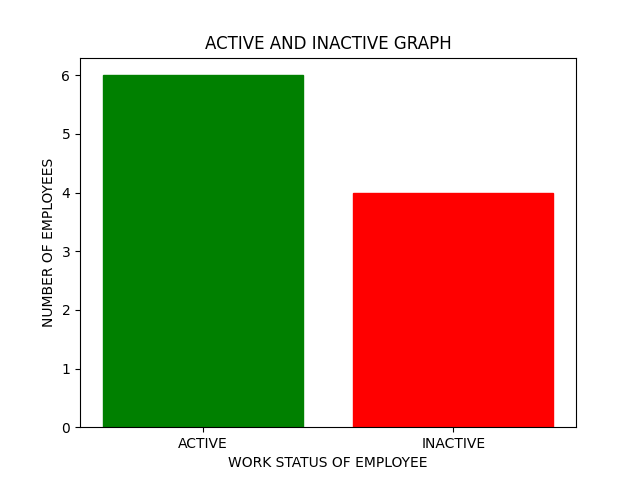
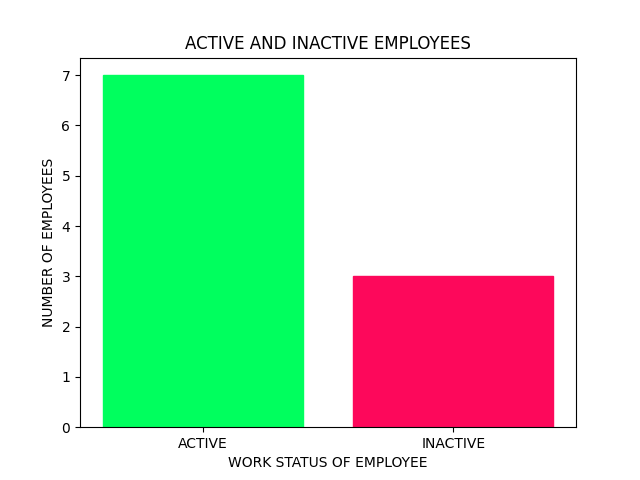
v0.7.0

diff --git a/main.py b/main.py
@@ -20,17 +20,18 @@ class Main:
     def __init__(self):
         # Root window creation
         root = Tk()
-
-        ws = root.winfo_screenwidth() # width of the screen
-        hs = root.winfo_screenheight() # height of the screen
-        x = int((ws/2) - (app_w/2))
-        y = int((hs/2) - (app_h/2))
         root.title('Employee Attendance Monitoring System')
+        
+        self.scr_w = root.winfo_screenwidth() # width of the screen
+        self.scr_h = root.winfo_screenheight() # height of the screen
+        x = int((self.scr_w/2) - (app_w/2))
+        y = int((self.scr_h/2) - (app_h/2))
         self.WINDOW_SIZE = f'{app_w}x{app_h}+{x}+{y}'
         root.geometry(self.WINDOW_SIZE)
+        
+        root.title('Employee Attendance Monitoring System')
         root.config(bg=BGCOLOR)
         root.resizable(False, False)
-        
 
         # Employee Information Initialization
         self.employee_id = ''
@@ -103,13 +104,14 @@ class Main:
         self.save_img = ImageTk.PhotoImage(Image.open("btn/save_btn.png").resize((btn_w, btn_h), Image.ANTIALIAS))
         self.back_img = ImageTk.PhotoImage(Image.open("btn/back_btn.png").resize((btn_h, btn_h), Image.ANTIALIAS))
 
+
         # Opening root window
         self.starting(root)
 
     def starting(self, root):
         global username, password
         # Creating frame to center widgets
-        login_bg = ImageTk.PhotoImage(Image.open('bg/login_bg.png').resize((app_w, app_h), Image.ANTIALIAS))
+        login_bg = ImageTk.PhotoImage(Image.open('bg/login_bg.png').resize((1000, 580), Image.ANTIALIAS))
         # login_img = ImageTk.PhotoImage(Image.open('bts_biot/login_btn.png').resize((80, 30), Image.ANTIALIAS))
         # exit_img = ImageTk.PhotoImage(Image.open('bts_biot/exit_btn.png').resize((80, 30), Image.ANTIALIAS))
         login_bg_lbl = Label(root,image=login_bg)
@@ -250,16 +252,22 @@ class Main:
         # Fetch employee profile
         self.c.execute(f"SELECT * FROM employees WHERE employee_id = '{id}'")
         content = self.c.fetchone()
-
         # Create Employee  Window
         employee_menu_page = Toplevel()
         employee_menu_page.title('Employee Attendance Monitoring System')
         employee_menu_page.config(bg=BGCOLOR)
-        employee_menu_page.geometry('600x400')
+        emp_page_w = 600
+        emp_page_h = 500
+        x = int((self.scr_w/2) - (emp_page_w/2))
+        y = int((self.scr_h/2) - (emp_page_h/2))
+        employee_menu_page.geometry(f'{emp_page_w}x{emp_page_h}+{x}+{y}')
         employee_menu_page.resizable(False, False)
 
-        button_h = 4
-        button_w = 15
+        time_in_img = ImageTk.PhotoImage(Image.open("btn/button_time-in.png").resize((200, 66), Image.ANTIALIAS))
+        time_out_img = ImageTk.PhotoImage(Image.open("btn/button_time-out.png").resize((200, 66), Image.ANTIALIAS))
+        view_record_img = ImageTk.PhotoImage(Image.open("btn/button_view-records.png").resize((150, 40), Image.ANTIALIAS))
+        edit_profile_img = ImageTk.PhotoImage(Image.open("btn/button_edit-profile.png").resize((150, 40), Image.ANTIALIAS))
+        change_pass_img = ImageTk.PhotoImage(Image.open("btn/button_change-password.png").resize((150, 40), Image.ANTIALIAS))
 
         Label(employee_menu_page, height=3, width=400, bg=HEADER_COLOR, text='EMPLOYEE', font=FONT).pack(pady=(0, 10))
 
@@ -269,39 +277,38 @@ class Main:
         # Header
         Label(employee_menu_frame, text='WELCOME,', bg=BGCOLOR, font=FONT).grid(sticky='W', row=0, column=0,
                                                                                   columnspan=2)
-        Label(employee_menu_frame, text=content[2].upper(), bg=BGCOLOR, font=FONT).grid(sticky='W', row=1, column=0, padx=(0,5))
-        Label(employee_menu_frame, text=content[3].upper(), bg=BGCOLOR, font=FONT).grid(sticky='W', row=1, column=1, padx=5,
-                                                                                  columnspan=2)
-        Label(employee_menu_frame, text=f'YOUR SCHEDULE: {content[5]} to {content[6]}', bg=BGCOLOR,).grid(sticky='W', row=1, column=2, padx=5,
+        Label(employee_menu_frame, text=f'{content[2].upper()} {content[3].upper()}', bg=BGCOLOR, font=FONT).grid(sticky='W', row=1, column=1, padx=(0,5))
+        
+        Label(employee_menu_frame, text=f'YOUR SCHEDULE: {content[5]} to {content[6]}', bg=BGCOLOR,).grid(sticky='W', row=2, column=0, pady=(5, 20),padx=5,
                                                                                   columnspan=2)
 
         # time and date today
         emp = Label(employee_menu_frame, bg=BGCOLOR, font=('Verdana', 10), width=40)
-        emp.grid(row=2, column=1, columnspan=2)
+        emp.grid(row=3, column=1, columnspan=2)
         self.current_time(emp)
 
         # time in button
-        Button(employee_menu_frame, text='TIME IN', width=button_w, height=button_h, bg='#a5e1ad',
-               font=('Verdana', 10),command=lambda: time_in_query(self, id)).grid(sticky='W', row=3, column=1, rowspan=2, pady=10, padx=20)
+        Button(employee_menu_frame, image=time_in_img, border=0, bg=BGCOLOR,
+               font=('Verdana', 10),command=lambda: time_in_query(self, id)).grid(sticky='W', row=4, column=1, rowspan=2, pady=10, padx=20)
 
         # time out button
-        Button(employee_menu_frame, text='TIME OUT', width=button_w, height=button_h, bg='#f29191',
-               font=('Verdana', 10), command=lambda: time_out_query(self, id)).grid(sticky='W', row=5, column=1, pady=10, rowspan=2, padx=20)
+        Button(employee_menu_frame, image=time_out_img,border=0, bg=BGCOLOR,
+               font=('Verdana', 10), command=lambda: time_out_query(self, id)).grid(sticky='W', row=6, column=1, pady=10, rowspan=2, padx=20)
 
         # View Records Button
-        Button(employee_menu_frame, text='VIEW RECORDS', bg='#c0fefc', width=20, command=lambda: employee_records(self, content[0])).grid(sticky='S', row=3, column=2,
+        Button(employee_menu_frame,image=view_record_img, bg=BGCOLOR, border=0, command=lambda: employee_records(self, content[0])).grid(sticky='S', row=4, column=2,
                                                                                       pady=10, padx=20)
 
         # Edit Profile Button
-        Button(employee_menu_frame, text='EDIT PROFILE', bg='#c0fefc', width=20,
-               command=lambda: [employee_menu_page.destroy(), edit_profile(self, content[0], root)]).grid(sticky='N', row=4, column=2,
+        Button(employee_menu_frame, image=edit_profile_img, bg=BGCOLOR, border=0,
+               command=lambda: [edit_profile(self, content[0], root,employee_menu_page)]).grid(sticky='N', row=5, column=2,
                                                                                          pady=10, padx=20)
 
         # Edit Password Button
-        Button(employee_menu_frame, text='CHANGE PASSWORD', bg='#c0fefc', width=20, command=lambda: edit_password(self, id)).grid(sticky='N', row=5, column=2,
+        Button(employee_menu_frame, image=change_pass_img, bg=BGCOLOR, border=0, command=lambda: edit_password(self, id,employee_menu_page)).grid(sticky='N', row=6, column=2,
                                                                                          pady=10, padx=20)
                                                                             
-        Button(employee_menu_frame, text='Log Out', bg='#e4bad4',command=lambda: [employee_menu_page.destroy(), root.deiconify()]).grid(row=6, column=2)
+        Button(employee_menu_frame, image=self.logout_img, bg=BGCOLOR,border=0, command=lambda: [employee_menu_page.destroy(), root.deiconify()]).grid(row=7, column=2)
         # check if the Exit th Window Manually
         employee_menu_page.protocol("WM_DELETE_WINDOW", lambda: [employee_menu_page.destroy(), root.deiconify()])
 

diff --git a/employee/employees.py b/employee/employees.py
@@ -4,7 +4,7 @@ from config_var import *
 from tkinter import messagebox
 from tkinter import ttk
 
-def edit_profile(self, id, root):
+def edit_profile(self, id, root, parent_window):
     global new_fname, new_lname, new_sex
     # fetch necessary info of employees
     self.c.execute("SELECT first_name, last_name, sex FROM employees WHERE employee_id = '{}'".format(id))
@@ -13,8 +13,15 @@ def edit_profile(self, id, root):
 
     # edit profile window
     edit_profile = Toplevel()
+
+    edit_page_w = 400
+    edit_page_h = 300
+    x = int((self.scr_w/2) - (edit_page_w/2))
+    y = int((self.scr_h/2) - (edit_page_h/2))
+    win_size=f'{edit_page_w}x{edit_page_h}+{x}+{y}'
     edit_profile.title('EDIT PROFILE')
-    edit_profile.geometry('400x300')
+    edit_profile.geometry(win_size)
+    edit_profile.resizable(False,False)
     edit_profile.config(bg=BGCOLOR)
 
     Label(edit_profile, height=3, width=400, bg=HEADER_COLOR, text='EDIT PROFILE', font=FONT).pack(pady=(0, 10))
@@ -34,20 +41,20 @@ def edit_profile(self, id, root):
     new_lname.insert(0, result[1])
 
     Label(edit, text='SEX: ', bg=BGCOLOR).grid(row=2, column=0, pady=10)
-    new_sex.set(result[2])
-    option = OptionMenu(edit, new_sex, 'MALE', 'FEMALE')
+    new_sex = ['MALE', 'FEMALE']
+    option = ttk.Combobox(edit, value=new_sex, width=10, state='readonly')
     option.grid(sticky='W', row=2, column=1)
+    option.current(new_sex.index(result[2]))
 
-    Button(edit, text='SAVE', bg='#AAFE92',
-           command=lambda: [edit_profile_query(self, (new_fname.get(), new_lname.get(), new_sex.get(), id)),
-                            edit_profile.destroy(), self.employee_page(root, id)]).grid(row=3, column=2)
+    Button(edit, image=self.save_img, border=0, bg=BGCOLOR,
+           command=lambda: [edit_profile_query(self, (new_fname.get(), new_lname.get(), option.get(), id)),
+                            edit_profile.destroy(),parent_window.destroy(), self.employee_page(root, id)]).grid(row=3, column=2, pady=20)
 
-    Button(edit, text='CANCEL', bg='#e4bad4',
-           command=lambda: [edit_profile.destroy(), self.employee_page(root, id)]).grid(row=3, column=1)
+    Button(edit, image=self.cancel_img, border=0, bg=BGCOLOR,
+           command=lambda: [edit_profile.destroy()]).grid(row=3, column=1, pady=20)
 
     # check if the Exit th Window Manually
     edit_profile.protocol("WM_DELETE_WINDOW", lambda: [edit_profile.destroy(), self.employee_page(root, id)])
-    edit_profile.mainloop()
 
 
 def edit_profile_query(self, data):
@@ -59,10 +66,15 @@ def edit_profile_query(self, data):
     WHERE employee_id = ?""", data)
     self.connection.commit()
 
-def edit_password(self, id):
+def edit_password(self, id, parent_window):
     # Edit password window
     edit_pass = Toplevel()
-    edit_pass.geometry('400x300')
+    edit_page_w = 400
+    edit_page_h = 300
+    x = int((self.scr_w/2) - (edit_page_w/2))
+    y = int((self.scr_h/2) - (edit_page_h/2))
+    win_size=f'{edit_page_w}x{edit_page_h}+{x}+{y}'
+    edit_pass.geometry(win_size)
     edit_pass.resizable(False, False)
     edit_pass.title('EDIT PASSWORD')
     edit_pass.config(bg=BGCOLOR)
@@ -80,13 +92,13 @@ def edit_password(self, id):
     new_password = Entry(edit_pass_frame)
     new_password.grid(row=1, column=1, columnspan=2)
 
-    Button(edit_pass_frame, text='SAVE', bg='#AAFE92',
+    Button(edit_pass_frame, image=self.save_img, bg=BGCOLOR, border=0,
            command=lambda: [edit_password_query(self, id, current_password, new_password, edit_pass)]).grid(row=2,
                                                                                                            column=2,
-                                                                                                           pady=10)
+                                                                                                           pady=10, padx=5)
 
-    Button(edit_pass_frame, text='CANCEL', bg='#FE9292', command=edit_pass.destroy).grid(row=2, column=1, pady=10)
-    edit_pass.mainloop()
+    Button(edit_pass_frame, image=self.cancel_img, bg=BGCOLOR,border=0 , command=edit_pass.destroy).grid(row=2, column=1, pady=10, padx=5)
+    
 
 
 def edit_password_query(self, id, current, new, page):
@@ -107,8 +119,14 @@ def employee_records(self, id):
     self.c.execute(f"SELECT * FROM employee_attendance WHERE employee_id = '{id}'")
     result = self.c.fetchall()
     employee_records_page = Toplevel()
+    emp_rec_w = 700
+    emp_rec_h = 400
+    x = int((self.scr_w/2) - (emp_rec_w/2))
+    y = int((self.scr_h/2) - (emp_rec_h/2))
+    win_size=f'{emp_rec_w}x{emp_rec_h}+{x}+{y}'
     employee_records_page.title('Employee Records')
-    employee_records_page.geometry('700x300')
+    employee_records_page.geometry(win_size)
+    employee_records_page.resizable(False,False)
     employee_records_page.config(bg=BGCOLOR)
 
     Label(employee_records_page, width=400, height=2, bg=HEADER_COLOR, text='EMPLOYEE RECORDS').pack(pady=(0,20))
@@ -117,7 +135,7 @@ def employee_records(self, id):
 
     scrollbar = Scrollbar(employee_records_frame, orient=VERTICAL)
 
-    tree = ttk.Treeview(employee_records_frame, yscrollcommand=scrollbar.set, height=7)
+    tree = ttk.Treeview(employee_records_frame, yscrollcommand=scrollbar.set, height=10)
 
     scrollbar.config(command=tree.yview)
     scrollbar.pack(side=RIGHT, fill=Y)

diff --git a/admin/view_report.py b/admin/view_report.py
@@ -5,7 +5,6 @@ from tkinter import ttk
 from tkinter import messagebox
 from PIL import ImageTk, Image
 
-import numpy as np
 import matplotlib.pyplot as plt
 
 #install numpy and matplotlib
@@ -14,36 +13,55 @@ figure_h = 300
 
 def gender_report_func(self,frame):
     Label(frame,text='data visualization here').pack(pady=100,padx=75)
-    return
+    
 
 def active_report_func(self,frame):
 
     self.c.execute("SELECT * FROM employees WHERE work_status = 'active'")
-    active_emp = self.c.fetchall()  
-    print(f"ACTIVE: {len(active_emp)}")
+    active_emp = self.c.fetchall()
 
     self.c.execute("SELECT * FROM employees WHERE work_status = 'inactive'")
     inactive_emp = self.c.fetchall()
-    print(f"\nINACTIVE: {len(inactive_emp)}")
 
-    x = ['ACTIVE','INACTIVE']
-    h = [len(active_emp), len(inactive_emp)]
-    barlist=plt.bar(x,h)
-    barlist[0].set_color('g')
-    barlist[1].set_color('r')
-    plt.title('ACTIVE AND INACTIVE GRAPH')
+    x = ['ACTIVE','INACTIVE'] #values in the x axis 
+    y = [len(active_emp), len(inactive_emp)] #values in the y axis 
+
+    barlist=plt.bar(x,y)
+    barlist[0].set_color('#00ff5e')   
+    barlist[1].set_color('#fd085b')
+    
+    plt.title('ACTIVE AND INACTIVE EMPLOYEES')
     plt.ylabel('NUMBER OF EMPLOYEES')
     plt.xlabel('WORK STATUS OF EMPLOYEE')
     plt.savefig('report_fig/active_report.png')
     plt.close()
+
     self.report_fig = ImageTk.PhotoImage(Image.open('report_fig/active_report.png').resize((figure_w, figure_h), Image.ANTIALIAS))
     Label(frame,image=self.report_fig,bg=BGCOLOR).pack()
-    return
+    
 
 def hearbeat_report_func(self,frame):
-    Label(frame,text='data visualization here').pack(pady=100,padx=75)
-    return
 
+    self.c.execute("SELECT * FROM employees WHERE employee_id  != 'admin'")
+    num_of_emp = len(self.c.fetchall())*30
+
+    x_months = ['JAN','FEB','MAR','APR','MAY','JUN','JUL','AUG','SEP','OCT','NOV','DEC']
+    y_per_month_count = []
+    for month in x_months:
+        self.c.execute(f"SELECT * from employee_attendance WHERE attendance_date LIKE '%{month}%' AND (status = 'LATE' OR status ='PRESENT')")
+        y_per_month_count.append(len(self.c.fetchall()))
+
+    plt.bar(x_months,y_per_month_count)
+    # plt.ylim(top=num_of_emp)
+    plt.title('Current Year Attendance Report')
+    plt.ylabel('NUMBER OF EMPLOYEES')
+    plt.xlabel('Month')
+    plt.savefig('report_fig/hearbeat_report.png')
+    plt.close()
+
+    self.hearbeat_fig = ImageTk.PhotoImage(Image.open('report_fig/hearbeat_report.png').resize((figure_w, figure_h), Image.ANTIALIAS))
+    Label(frame,image=self.hearbeat_fig,bg=BGCOLOR).pack()
+    
 
 def view_report(self,menu_page):
     view_report_page = Toplevel()
@@ -62,15 +80,17 @@ def view_report(self,menu_page):
     active_report_func(self,active_report_frame)
     active_report_frame.grid(row=1,column=1)
 
-    #frame from gender report, edit the gender_report_func function for the content
-    gender_report_frame=LabelFrame(view_report_frame,text="GENDER REPORT",bg=BGCOLOR,pady=frame_h,padx=frame_w)
-    gender_report_func(self,gender_report_frame)
-    gender_report_frame.grid(row=1,column=2)
-
     #frame attendace graph, edit the hearbeat_report_func function for the content
     hearbeat_report_frame=LabelFrame(view_report_frame,text='ATTENDANCE HEARBEAT',bg=BGCOLOR,pady=frame_h,padx=frame_w)
     hearbeat_report_func(self,hearbeat_report_frame)
-    hearbeat_report_frame.grid(row=2,column=1)
+    hearbeat_report_frame.grid(row=1,column=2)
+
+    #frame from gender report, edit the gender_report_func function for the content
+    gender_report_frame=LabelFrame(view_report_frame,text="GENDER REPORT",bg=BGCOLOR,pady=frame_h,padx=frame_w)
+    gender_report_func(self,gender_report_frame)
+    gender_report_frame.grid(row=2,column=1)
+
+    
 
     back_btn=Button(view_report_page, image=self.back_img, bd=0, command=lambda: [view_report_page.destroy(), menu_page.deiconify()])
     back_btn.place(x=900,y=525)

diff --git a/admin/show_record.py b/admin/show_record.py
@@ -51,13 +51,18 @@ def edit_record(self,page):
     id = record['values'][0]
     cell_size = 35
     table_col=3
-    win_size='400x300'
+    edit_page_w = 400
+    edit_page_h = 300
+    x = int((self.scr_w/2) - (edit_page_w/2))
+    y = int((self.scr_h/2) - (edit_page_h/2))
+    win_size=f'{edit_page_w}x{edit_page_h}+{x}+{y}'
     
     global employee_id_edit,password_edit,first_name_edit,last_name_edit,sex_edit,schedule_in_edit,schedule_out_edit,work_status_edit
 
     edit_record_page = Tk()
     edit_record_page.title('EDIT EMPLOYEE RECORD')
     edit_record_page.geometry(win_size)
+    edit_record_page.resizable(False,False)
     edit_record_page.config(bg=BGCOLOR)
 
     Label(edit_record_page,text="EMPLOYEE ID:",bg=BGCOLOR).grid(row=2,column=table_col-1,padx=10,pady=(40,0 ))
@@ -134,8 +139,6 @@ def delete_query(self):
 def show_records(self, root_page):
     cell_size = 150
     mid_cell_size = 25
-    win_size='1100x620'
-    th_font ='Arial 12 bold'
     show_record_page = Toplevel()
     show_record_page.title('SHOW RECORDS')
     show_record_page.geometry(self.WINDOW_SIZE)
@@ -171,7 +174,8 @@ def show_records(self, root_page):
     
     #select all employees except for the admin
     self.c.execute("SELECT * FROM employees WHERE employee_id  != 'admin'")
-    records = self.c.fetchall()        
+    records = self.c.fetchall()     
+    self.number_of_emp = len(records)
     #insert data
     count=0
     for record in records:

diff --git a/admin/add_record.py b/admin/add_record.py
@@ -10,7 +10,12 @@ def add_record(self, menu_page):
     BGCOLOR='#ffffff'
     add_record_page = Toplevel()
     add_record_page.title('Add Record')
-    add_record_page.geometry('600x580')
+    addrec_page_w = 600
+    addrec_page_h = 580
+    x = int((self.scr_w/2) - (addrec_page_w/2))
+    y = int((self.scr_h/2) - (addrec_page_h/2))
+    add_record_page.geometry(f'{addrec_page_w}x{addrec_page_h}+{x}+{y}')
+    add_record_page.resizable(False,False)
     add_record_page.config(bg=BGCOLOR)
 
     # Label(add_record_page, height=3, width=400, bg=HEADER_COLOR, text='Add Record', font=FONT).pack(pady=(0, 10))

diff --git a/config_var.py b/config_var.py
@@ -2,7 +2,6 @@ btn_h = 40
 btn_w = 100
 app_w=1000
 app_h=580
-WINDOW_SIZE = '1000x580+0+30'
 FONT = ('Verdana', 15)
 BGCOLOR='#eff8ff'
 HEADER_COLOR='#7EE5FF'
